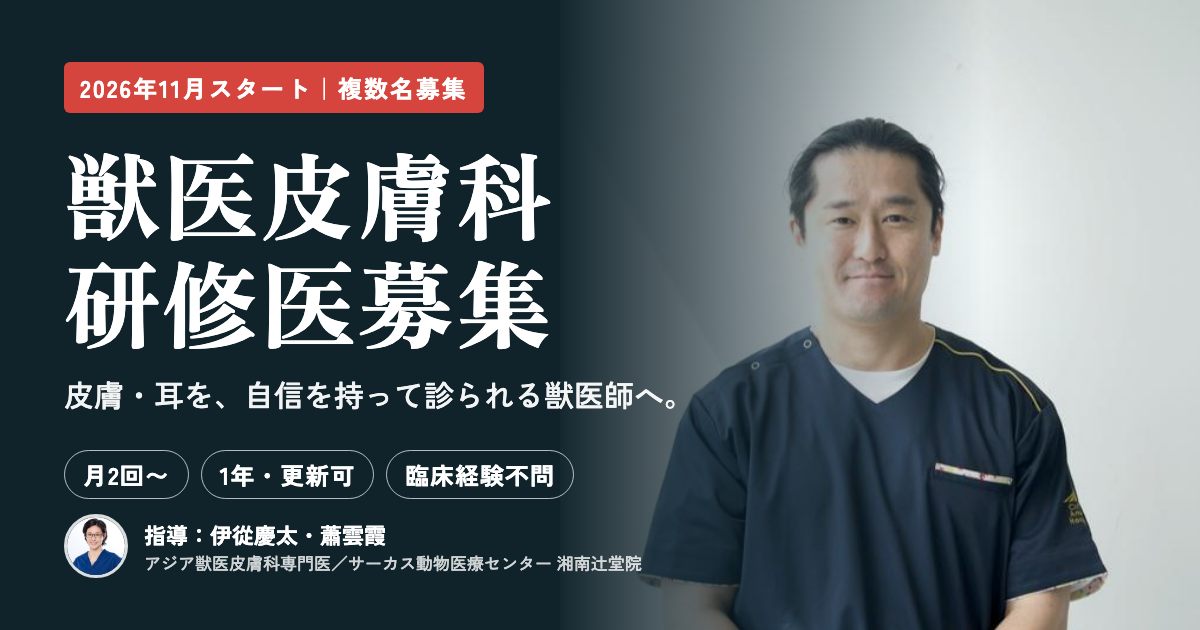
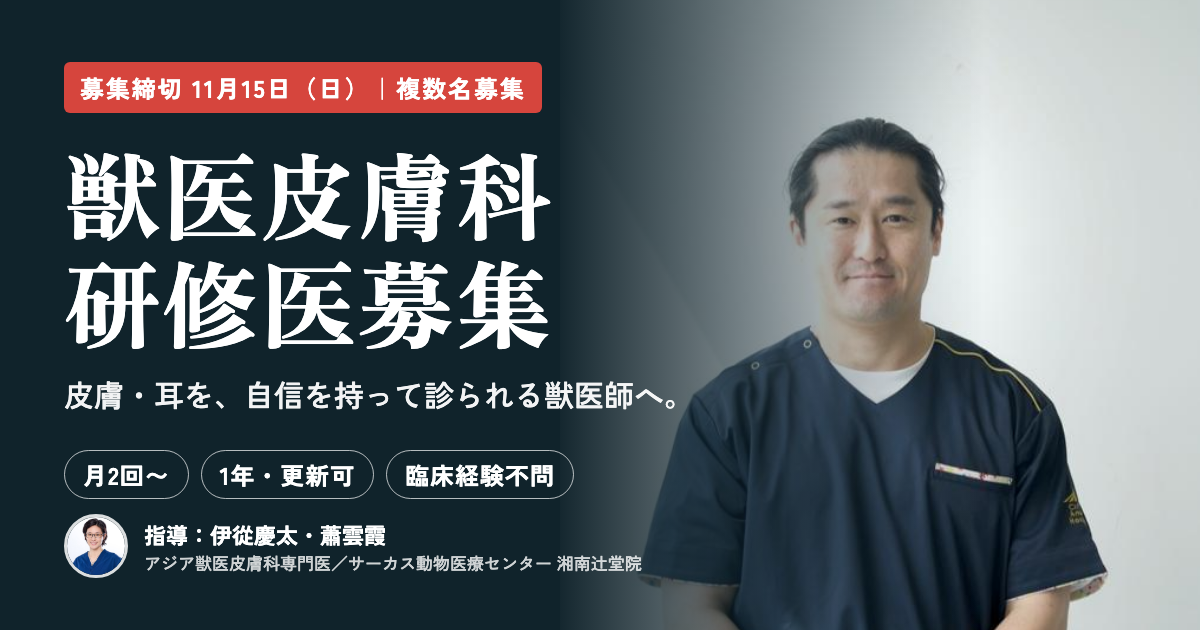
募集期間（11/15締切）を追加

Changed region(s): [[0.0617, 0.0905, 0.4625, 0.181]]

diff --git a/index.html b/index.html
@@ -4,9 +4,9 @@
 <meta charset="utf-8">
 <meta name="viewport" content="width=device-width,initial-scale=1,viewport-fit=cover">
 <title>獣医皮膚科 研修医募集｜サーカス動物医療センター 湘南辻堂院</title>
-<meta name="description" content="アジア獣医皮膚科専門医・伊從慶太のもとで学ぶ、獣医師向けの皮膚科研修。2026年11月スタート、月2回〜、研修費 月3,000円（税別）。">
+<meta name="description" content="アジア獣医皮膚科専門医・伊從慶太のもとで学ぶ、獣医師向けの皮膚科研修。2026年11月スタート、月2回〜、研修費 月3,000円（税別）。募集は11月15日（日）まで。">
 <meta property="og:title" content="獣医皮膚科 研修医募集｜湘南辻堂院">
-<meta property="og:description" content="皮膚・耳を、自信を持って診られる獣医師へ。2026年11月スタート｜複数名募集">
+<meta property="og:description" content="皮膚・耳を、自信を持って診られる獣医師へ。2026年11月スタート｜11月15日（日）締切">
 <meta property="og:type" content="website">
 <meta property="og:image" content="https://toyoda-blip.github.io/derm-resident-recruit/img/ogp.png">
 <meta property="og:url" content="https://toyoda-blip.github.io/derm-resident-recruit/">
@@ -120,7 +120,7 @@ footer.site a{color:var(--muted)}
 <header class="hero">
   <img src="img/hero.jpg" alt="サーカス動物医療センター 湘南辻堂院の外観">
   <div class="hero-in">
-    <span class="badge">2026年11月スタート｜複数名募集</span>
+    <span class="badge">2026年11月スタート｜11月15日（日）締切</span>
     <h1>獣医皮膚科<br>研修医募集</h1>
     <p>皮膚・耳を、自信を持って診られる獣医師へ。</p>
     <p class="by">指導：伊從慶太（アジア獣医皮膚科専門医）</p>
@@ -132,7 +132,8 @@ footer.site a{color:var(--muted)}
     <dl>
       <dt>場所</dt><dd><a href="https://circus-ah.com/shonan-tsujido/" target="_blank" rel="noopener">サーカス動物医療センター 湘南辻堂院</a><br><span style="color:var(--muted);font-size:.85rem">JR辻堂駅 北口から徒歩8分</span></dd>
       <dt>日程</dt><dd>水曜以外で月2回〜<br><span style="color:var(--muted);font-size:.85rem">水曜以外はアジア獣医皮膚科専門医が在籍。伊從は主に火・木出勤（学会などで不在の日は事前にご連絡します）</span></dd>
-      <dt>期間</dt><dd>1年（更新可）／途中からの参加OK</dd>
+      <dt>募集期間</dt><dd>2026年11月15日（日）まで／複数名募集</dd>
+      <dt>研修期間</dt><dd>1年（更新可）／途中からの参加OK</dd>
       <dt>研修費</dt><dd>月3,000円（税別）</dd>
       <dt>対象</dt><dd>獣医師（臨床経験は問いません）</dd>
     </dl>
